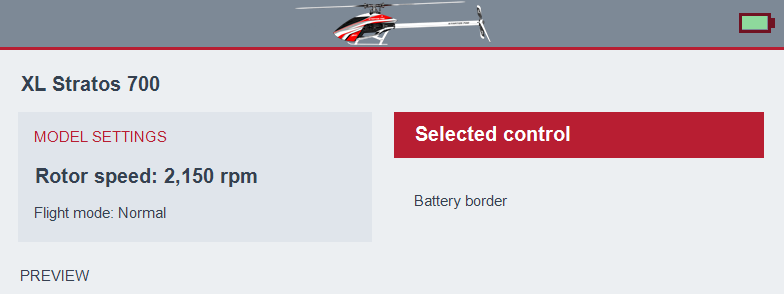
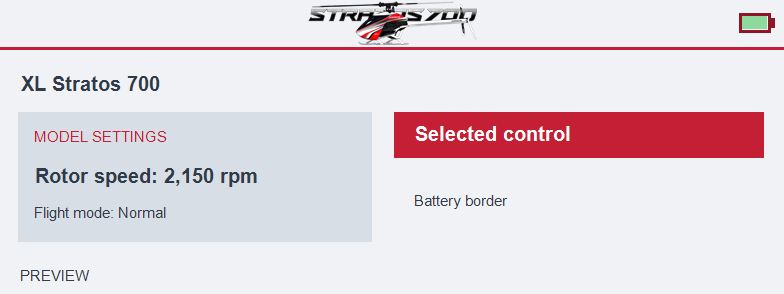
stratos 700 light

Changed region(s): [[0.0, 0.0, 1.0, 0.1837]]

diff --git a/README.md b/README.md
@@ -25,7 +25,8 @@ Select a theme under **System > General > Theme**.
 A light silver, white and red theme with the supplied helicopter image centered
 in its 784 x 50 header. The photo background is transparent, and the theme uses
 no black palette colors. A light green battery fill has dark green contrasting details, with a deep red
-outline against the supplied slate grey header. The page also uses a light grey background.
+outline against a light silver header that matches the page background. The header
+uses the newer helicopter image with the original STRATOS 700 lettering behind it.
 See [the theme preview](previews/stratos-700-xlpower.png).
 Rebuild the header with `.vscode/scripts/build_stratos_header.ps1`.
 
